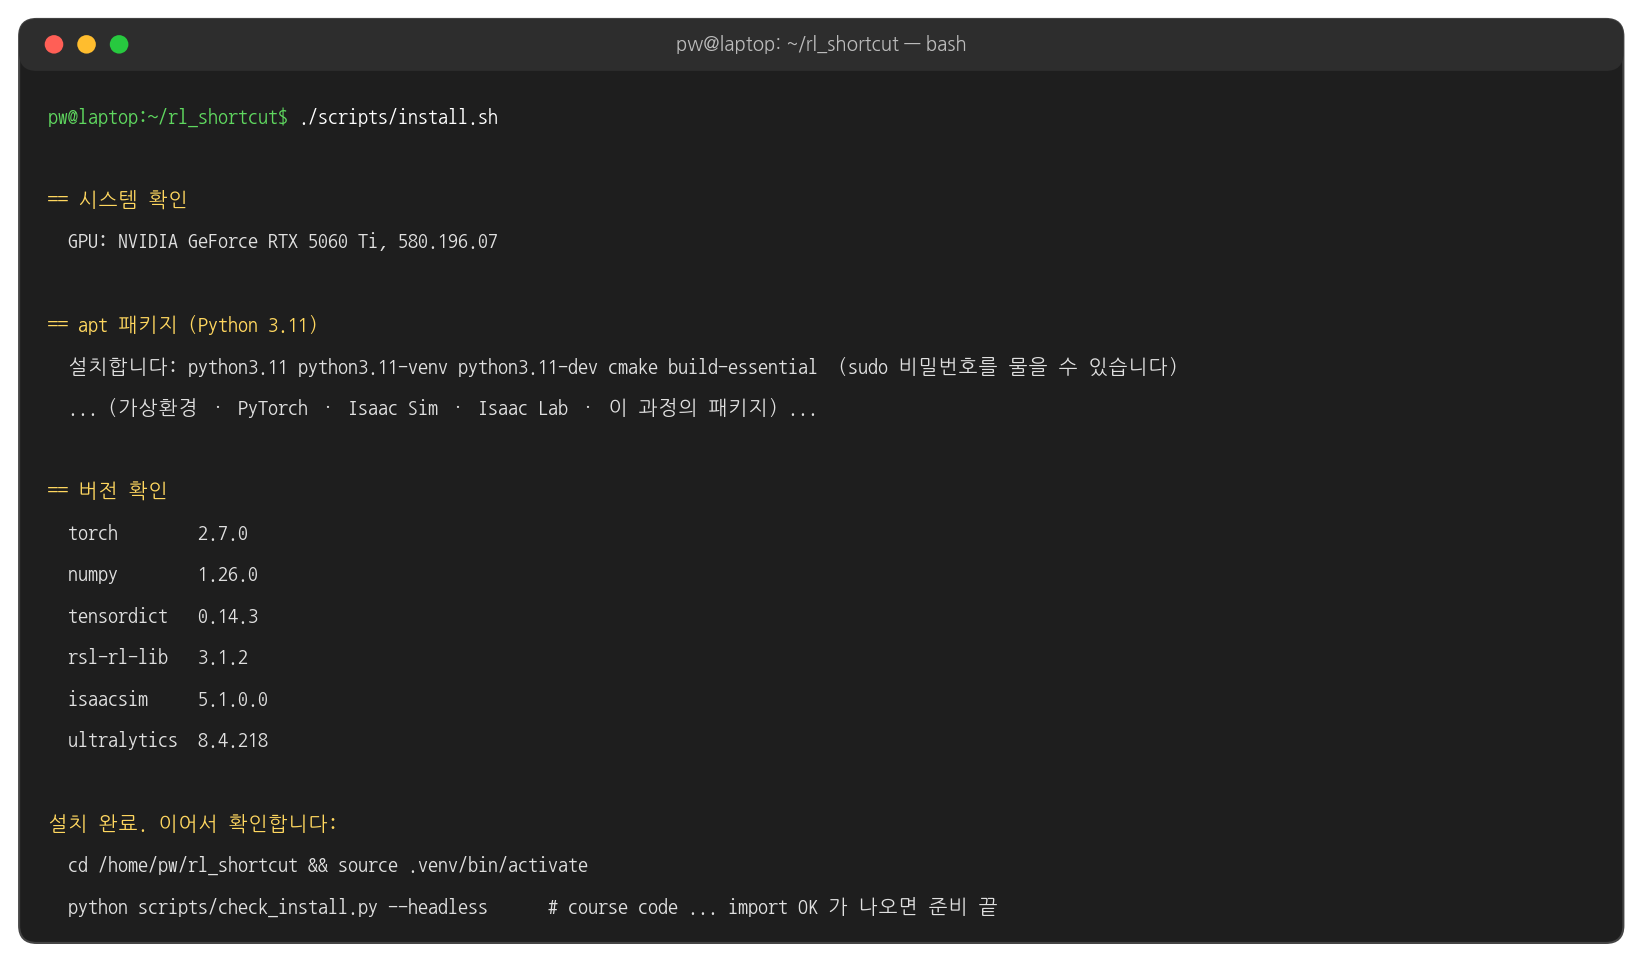
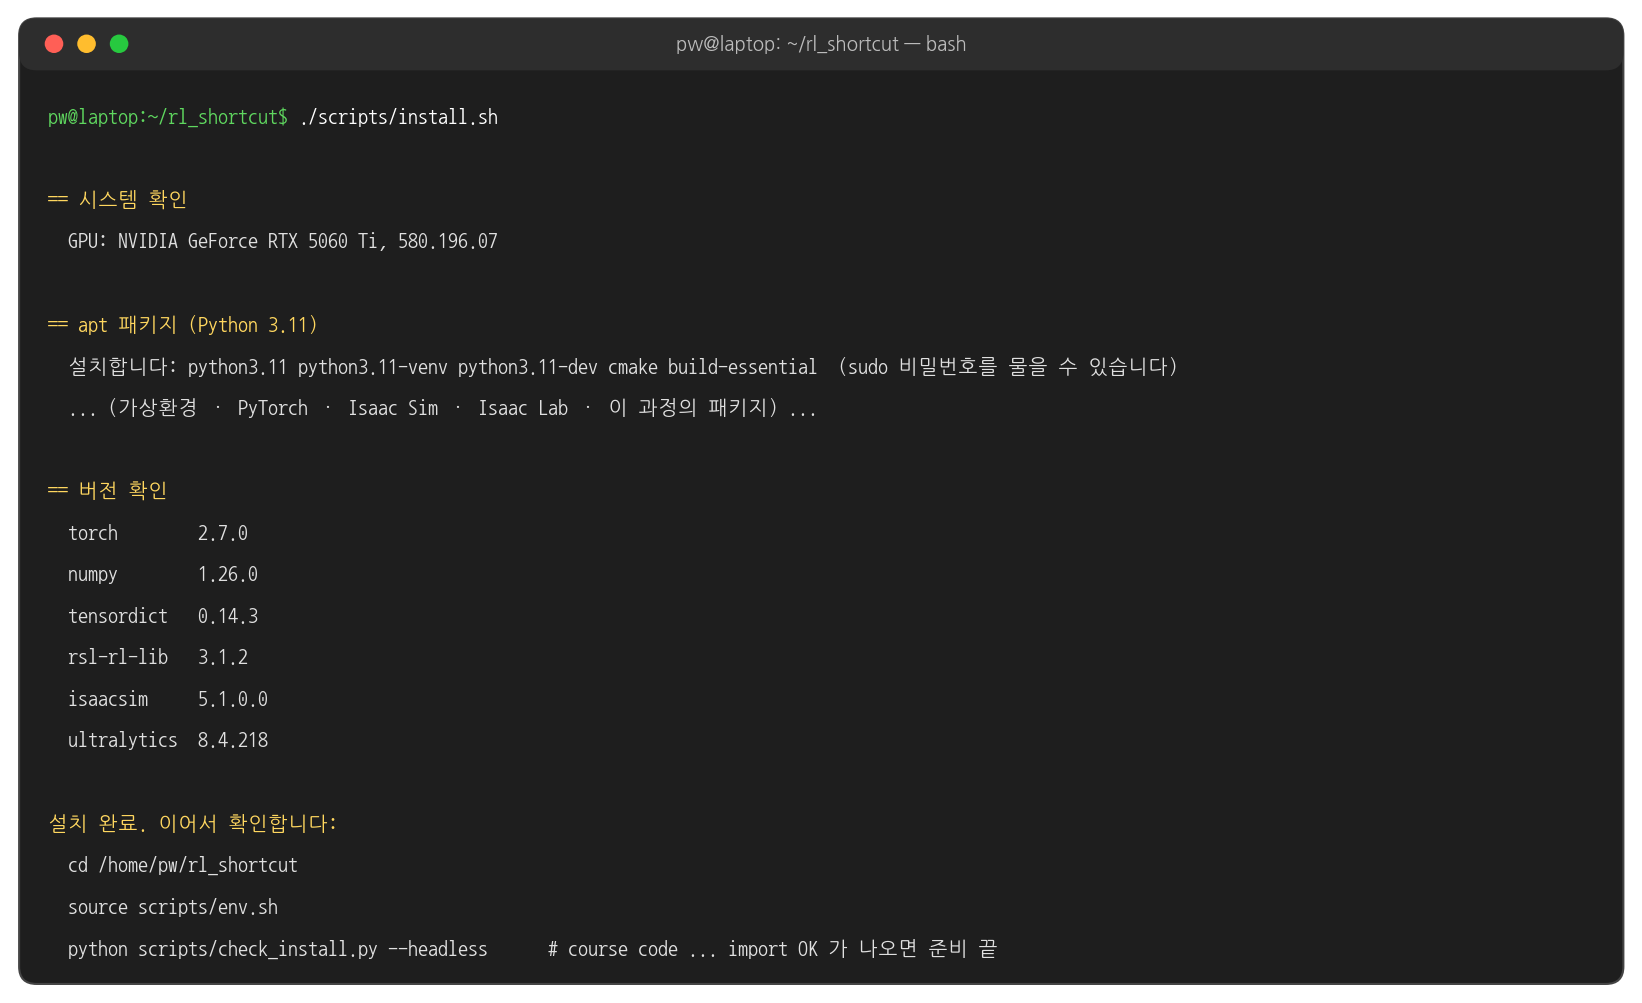
Add scripts/env.sh: one command to set up each new terminal
env.sh moves to the repository, turns off conda and other venvs, activates
.venv, clears PYTHONPATH (ROS 2), compares the key package versions with
constraints.txt and prints the GPU and the work folder.

Every terminal block of the lecture pages is now
"cd ~/rl_shortcut, source scripts/env.sh, command"; check_lessons.py checks it.

Claude-Session: https://claude.ai/code/session_01DYn8iym7Vg9cHeZkL8UDNu

diff --git a/docs/lecture/draw_lesson02_figures.py b/docs/lecture/draw_lesson02_figures.py
@@ -23,7 +23,7 @@ def requirements():
 def install_flow():
     fig, ax = fig_ax(16, 2.6)
     chain(ax, [("① 저장소 받기", ["git 설치 · git clone"]), ("② 설치 스크립트", ["./scripts/install.sh  (약 20분)"]),
-               ("③ 설치 확인", ["check_install.py"])],
+               ("③ 설치 확인", ["env.sh · check_install.py"])],
           0.5, 1.35, gap=0.5, colors=[C["blue"], C["teal"], C["green"]], tfs=12.5, fs=10.5)
     note(ax, 0.3, 2.3, "검증: 새로 설치한 Ubuntu 24.04 에서 ① ~ ③ 약 20분 (인터넷 속도에 따라 달라짐)", fs=10)
     save(fig, "l02_install_flow.png")
@@ -66,8 +66,9 @@ def folders():
 
 
 def scripts_map():
-    fig, ax = fig_ax(16, 9.04)
+    fig, ax = fig_ax(16, 9.72)
     rows = [("install.sh", "한 번에 설치 (apt · venv · pip · Isaac Lab)", "②", C["green"]),
+            ("env.sh", "새 터미널마다 source: 가상환경 활성화 · 버전 확인", "②", C["green"]),
             ("check_install.py", "버전 · GPU · 물리 100 스텝 확인", "②", C["green"]),
             ("physics_drop.py", "공 3개 낙하: 반발 계수 · dt", "③", C["blue"]),
             ("physics_parallel.py", "Go2 N 대 병렬 물리 속도", "③", C["blue"]),
@@ -80,13 +81,13 @@ def scripts_map():
             ("go2_stand.py", "PD 모터로 서 있기 (kp 비교)", "⑧", C["yellow"]),
             ("g1_motion.py", "G1 레퍼런스 동작 재생", "⑪⑫", C["red"])]
     for i, (name, what, page, fc) in enumerate(rows):
-        y = 8.17 - i * 0.68
+        y = 8.85 - i * 0.68
         rbox(ax, 0.3, y, 6.4, 0.56, name, fc=fc, tfs=10.5, lw=1.0)
         rbox(ax, 6.9, y, 6.9, 0.56, what, fc="white", tfs=10, lw=1.0)
         rbox(ax, 14.0, y, 1.7, 0.56, page, fc=C["grey"], tfs=10.5, lw=1.0)
-    note(ax, 0.3, 8.92, "scripts/ 아래 스크립트", bold=True, color=INK, fs=11)
-    note(ax, 6.9, 8.92, "하는 일", bold=True, color=INK, fs=11)
-    note(ax, 14.0, 8.92, "페이지", bold=True, color=INK, fs=11)
+    note(ax, 0.3, 9.60, "scripts/ 아래 스크립트", bold=True, color=INK, fs=11)
+    note(ax, 6.9, 9.60, "하는 일", bold=True, color=INK, fs=11)
+    note(ax, 14.0, 9.60, "페이지", bold=True, color=INK, fs=11)
     save(fig, "l02_scripts_map.png")
 
 
@@ -94,7 +95,7 @@ def troubleshoot():
     fig, ax = fig_ax(16, 6.56)
     rows = [("디스크 여유가 ... GB 입니다. 30 GB 이상 필요합니다.", "설치에 30 GB 필요", "공간을 비우고 install.sh 다시"),
             ("fatal: destination path 'rl_shortcut' already exists", "이미 받은 폴더가 있음", "cd ~/rl_shortcut 후 ② 부터"),
-            ("No module named 'isaaclab'", "venv 활성화 안 됨 · 설치 중단", "source .venv/bin/activate · install.sh 다시"),
+            ("No module named 'isaaclab'", "환경을 켜지 않음 · 설치 중단", "cd ~/rl_shortcut · source scripts/env.sh"),
             ("Do you accept the EULA? (Yes/No)", "첫 실행 라이선스 확인", "Yes 입력 (한 번만)"),
             ("CUDA error: no kernel image is available", "torch 가 CUDA 12.8 빌드가 아님", "rm -rf .venv 후 install.sh 다시"),
             ("ImportError: cannot import name 'is_structseq_instance'", "패키지를 따로 올려 버전이 바뀜", "rm -rf .venv 후 install.sh 다시"),

diff --git a/docs/lecture/render_terminals.py b/docs/lecture/render_terminals.py
@@ -39,10 +39,18 @@ def setup():
             ("out", "  ultralytics  8.4.218"),
             ("out", ""),
             ("out", "설치 완료. 이어서 확인합니다:"),
-            ("out", "  cd /home/pw/rl_shortcut && source .venv/bin/activate"),
+            ("out", "  cd /home/pw/rl_shortcut"),
+            ("out", "  source scripts/env.sh"),
             ("out", "  python scripts/check_install.py --headless      # course code ... import OK 가 나오면 준비 끝")],
            "l02_t_install.png", prompt="pw@laptop:~/rl_shortcut$ ", title="pw@laptop: ~/rl_shortcut — bash",
            highlight=("== ", "설치 완료"))
+    render([("prompt", "cd ~/rl_shortcut"),
+            ("prompt", "source scripts/env.sh", "pw@laptop:~/rl_shortcut$ "),
+            ("out", "rl_shortcut 환경: Python 3.11.18 · torch 2.7.0+cu128"),
+            ("out", "GPU: NVIDIA GeForce RTX 5060 Ti, 580.196.07"),
+            ("out", "작업 폴더: /home/pw/rl_shortcut  (명령은 모두 이 폴더에서 실행합니다)"),
+            ("prompt", "python scripts/check_install.py --headless", V)],
+           "l02_t_env.png", prompt="pw@laptop:~$ ", title="pw@laptop: ~ — bash", highlight=("rl_shortcut 환경", "GPU:", "작업 폴더"))
     render([("prompt", "python scripts/check_install.py --headless"),
             ("out", "Do you accept the EULA? (Yes/No): Yes"),
             ("out", "  ... (Isaac Sim 시작 로그) ..."),

diff --git a/docs/lecture/check_lessons.py b/docs/lecture/check_lessons.py
@@ -49,7 +49,15 @@ def excerpts():
     bad = 0
     for page in ORDER:
         for heading, lang, body in blocks(page):
-            if lang == "bash" or not body:
+            if lang == "bash":       # a new terminal must work: the work folder first, then the course environment
+                if body[:1] != ["cd ~/rl_shortcut"] and body[:1] != ["cd ~"]:
+                    print(f"lesson{page}.md [{heading}]: bash block does not start with cd ~/rl_shortcut")
+                    bad += 1
+                if any(line.startswith("python ") for line in body) and body[1:2] != ["source scripts/env.sh"]:
+                    print(f"lesson{page}.md [{heading}]: python command without source scripts/env.sh")
+                    bad += 1
+                continue
+            if not body:
                 continue
             m = re.match(r"\s*(?:#|//)\s*([\w./-]+\.\w+)", body[0])
             if not m:

diff --git a/docs/lecture/lesson02_setup.md b/docs/lecture/lesson02_setup.md
@@ -65,7 +65,7 @@ cd ~/rl_shortcut
 
 ```bash
 cd ~/rl_shortcut
-source .venv/bin/activate
+source scripts/env.sh
 python scripts/check_install.py --headless
 ```
 
@@ -81,11 +81,16 @@ python scripts/check_install.py --headless
 
 ```bash
 cd ~/rl_shortcut
-source .venv/bin/activate
+source scripts/env.sh
 ```
 
-- `source .venv/bin/activate` 후: 프롬프트 앞에 `(.venv)` 표시 · `python` · `pip` 이 이 가상환경의 것
-- 이 강의의 명령은 모두 이 상태에서 실행
+- 항상 작업 폴더 `~/rl_shortcut` 으로 먼저 이동 → 학습 결과(`logs/`) · 체크포인트 경로가 모두 이 폴더 기준
+- `env.sh` = 가상환경 활성화 (프롬프트 앞에 `(.venv)` 표시) · 설치한 버전이 검증한 것과 다르면 경고
+- conda · 다른 가상환경은 끄고 ROS 2 의 파이썬 경로는 비움 → 수업 전용 터미널로 사용 · 이 강의의 명령은 모두 이 상태에서 실행
+
+### 실행 결과: 환경 켜기
+
+![env.sh](l02_t_env.png){width=1000}
 
 ## 2. 폴더 구조
 

diff --git a/docs/lecture/lesson10_g1_kungfu.md b/docs/lecture/lesson10_g1_kungfu.md
@@ -12,6 +12,7 @@
 
 ```bash
 cd ~/rl_shortcut
+source scripts/env.sh
 python scripts/g1_motion.py --motion bruce_lee
 ```
 
@@ -28,6 +29,7 @@ python scripts/g1_motion.py --motion bruce_lee
 
 ```bash
 cd ~/rl_shortcut
+source scripts/env.sh
 python scripts/play.py --task g1 --motion bruce_lee --checkpoint g1_walk
 ```
 
@@ -54,7 +56,8 @@ python scripts/play.py --task g1 --motion bruce_lee --checkpoint g1_walk
 ### 터미널: 학습 실행
 
 ```bash
-cd ~/rl_shortcut && source .venv/bin/activate
+cd ~/rl_shortcut
+source scripts/env.sh
 python scripts/train.py --task g1 --motion bruce_lee --headless
 ```
 
@@ -90,6 +93,7 @@ python scripts/train.py --task g1 --motion bruce_lee --headless
 
 ```bash
 cd ~/rl_shortcut
+source scripts/env.sh
 python scripts/play.py --task g1 --motion bruce_lee
 ```
 

diff --git a/README.md b/README.md
@@ -11,7 +11,7 @@ The lecture (Korean) is on Confluence; its sources are in `docs/lecture/`.
 sudo apt update && sudo apt install -y git
 cd ~ && git clone https://github.com/PinkWink/rl_shortcut.git && cd rl_shortcut
 ./scripts/install.sh                 # apt (Python 3.11), .venv, PyTorch, Isaac Sim, Isaac Lab, this course: about 20 minutes
-source .venv/bin/activate
+source scripts/env.sh                # every new terminal, from this folder: activate .venv, keep conda / ROS 2 Python out, check versions
 python scripts/check_install.py --headless      # answer Yes to the EULA on the first run
 ```
 

diff --git a/docs/lecture/lesson11_pinky_yolo.md b/docs/lecture/lesson11_pinky_yolo.md
@@ -47,7 +47,8 @@
 ### 터미널: 400장 모으기
 
 ```bash
-cd ~/rl_shortcut && source .venv/bin/activate
+cd ~/rl_shortcut
+source scripts/env.sh
 python scripts/pinky_dataset.py --headless --enable_cameras
 ```
 
@@ -85,7 +86,8 @@ python scripts/pinky_dataset.py --headless --enable_cameras
 ### 터미널: 학습 실행
 
 ```bash
-cd ~/rl_shortcut && source .venv/bin/activate
+cd ~/rl_shortcut
+source scripts/env.sh
 python scripts/pinky_yolo.py
 ```
 
@@ -111,6 +113,7 @@ python scripts/pinky_yolo.py
 
 ```bash
 cd ~/rl_shortcut
+source scripts/env.sh
 python scripts/pinky_yolo.py --check
 ```
 

diff --git a/docs/lecture/lesson12_pinky_drive.md b/docs/lecture/lesson12_pinky_drive.md
@@ -150,7 +150,8 @@ def off_road(env, margin=0.04):
 ### 터미널: 학습 실행
 
 ```bash
-cd ~/rl_shortcut && source .venv/bin/activate
+cd ~/rl_shortcut
+source scripts/env.sh
 python scripts/train.py --task pinky --headless
 ```
 
@@ -186,6 +187,7 @@ python scripts/train.py --task pinky --headless
 
 ```bash
 cd ~/rl_shortcut
+source scripts/env.sh
 python scripts/play.py --task pinky
 ```
 
@@ -202,6 +204,7 @@ python scripts/play.py --task pinky
 
 ```bash
 cd ~/rl_shortcut
+source scripts/env.sh
 python scripts/play.py --task pinky --num_envs 1 --perception yolo --enable_cameras
 ```
 

diff --git a/docs/lecture/lesson09_g1_walk.md b/docs/lecture/lesson09_g1_walk.md
@@ -38,6 +38,7 @@
 
 ```bash
 cd ~/rl_shortcut
+source scripts/env.sh
 python scripts/g1_motion.py --motion walk
 ```
 
@@ -160,7 +161,8 @@ height_off = DoneTerm(func=height_off, params={"limit": 0.3})
 ### 터미널: 학습 실행
 
 ```bash
-cd ~/rl_shortcut && source .venv/bin/activate
+cd ~/rl_shortcut
+source scripts/env.sh
 python scripts/train.py --task g1 --motion walk --headless
 ```
 
@@ -186,6 +188,7 @@ python scripts/train.py --task g1 --motion walk --headless
 
 ```bash
 cd ~/rl_shortcut
+source scripts/env.sh
 python scripts/play.py --task g1 --motion walk
 ```
 

diff --git a/docs/lecture/lesson03_physics.md b/docs/lecture/lesson03_physics.md
@@ -37,6 +37,7 @@
 
 ```bash
 cd ~/rl_shortcut
+source scripts/env.sh
 python scripts/physics_drop.py
 ```
 
@@ -59,6 +60,7 @@ python scripts/physics_drop.py
 
 ```bash
 cd ~/rl_shortcut
+source scripts/env.sh
 python scripts/physics_drop.py --headless --dt 0.02
 ```
 
@@ -97,6 +99,7 @@ RigidObjectCfg(
 
 ```bash
 cd ~/rl_shortcut
+source scripts/env.sh
 python scripts/physics_parallel.py --num_envs 16
 python scripts/physics_parallel.py --headless --num_envs 4096
 ```

diff --git a/docs/lecture/lesson06_go2_usd.md b/docs/lecture/lesson06_go2_usd.md
@@ -27,6 +27,7 @@ GO2_USD = f"{ISAACLAB_NUCLEUS_DIR}/Robots/Unitree/Go2/go2.usd"
 
 ```bash
 cd ~/rl_shortcut
+source scripts/env.sh
 python scripts/go2_inspect.py --headless
 ```
 
@@ -135,6 +136,7 @@ GO2_CFG = ArticulationCfg(
 
 ```bash
 cd ~/rl_shortcut
+source scripts/env.sh
 python scripts/go2_stand.py
 python scripts/go2_stand.py --kp 5
 python scripts/go2_stand.py --kp 0
